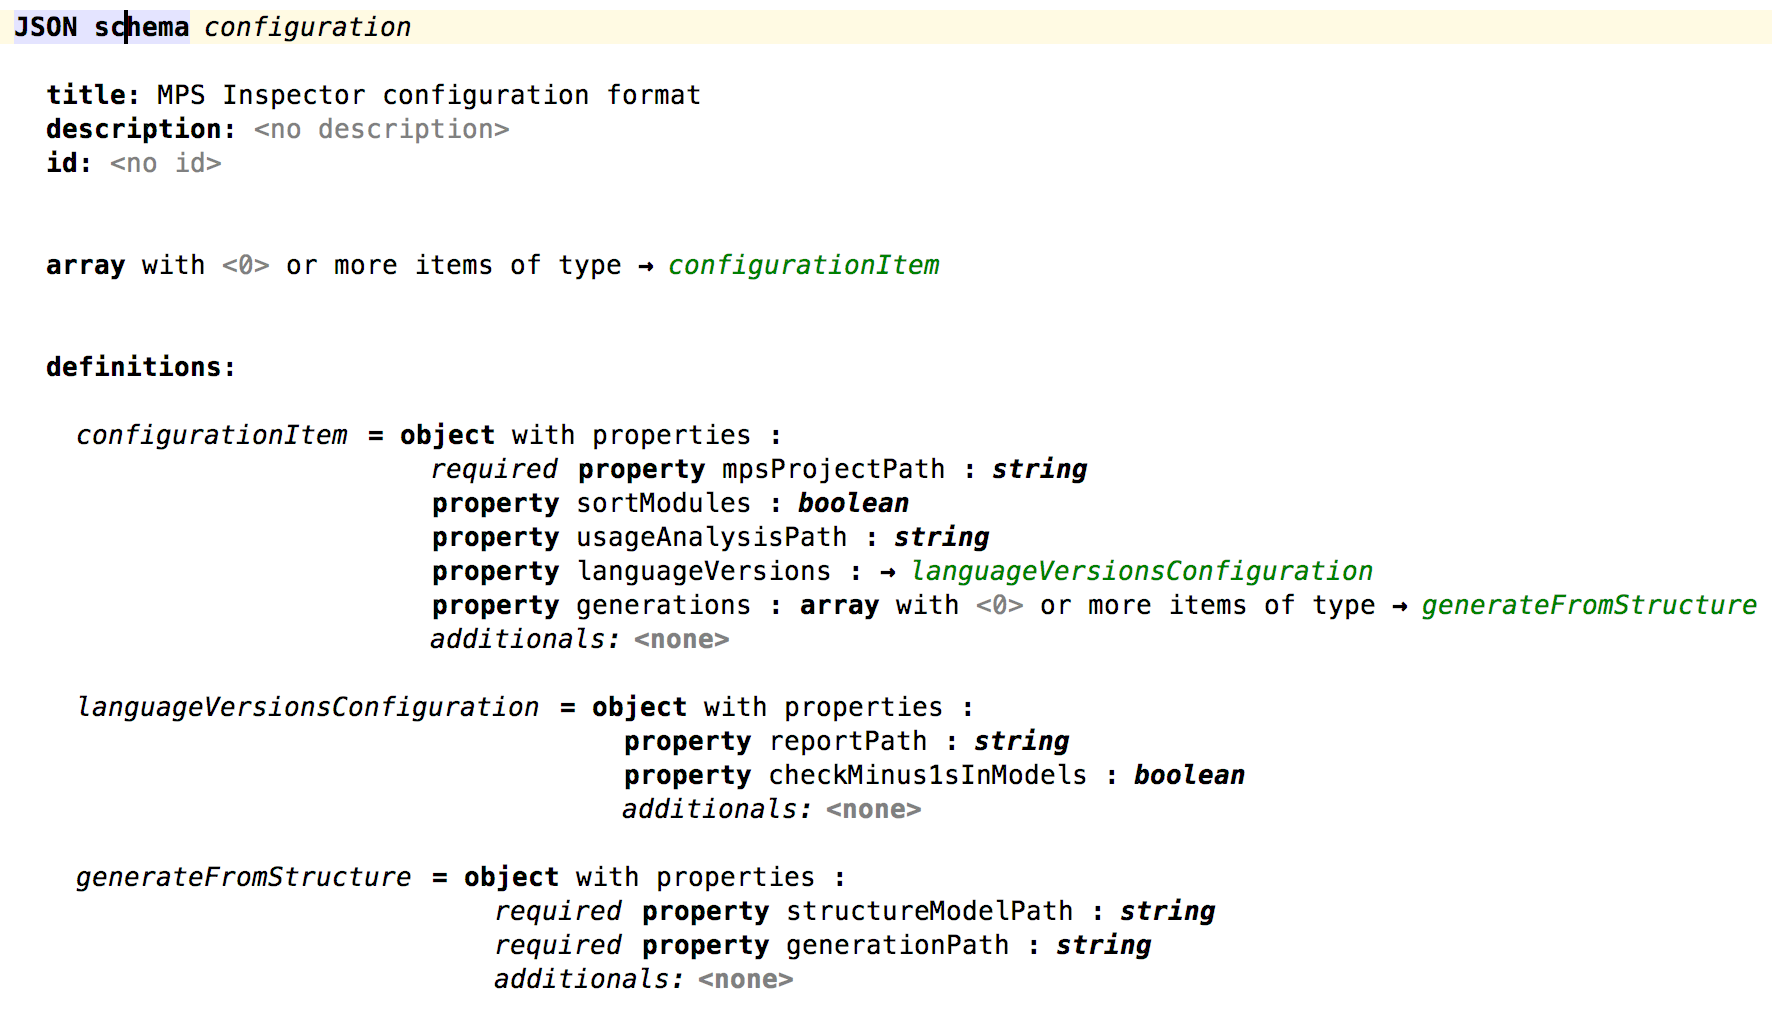
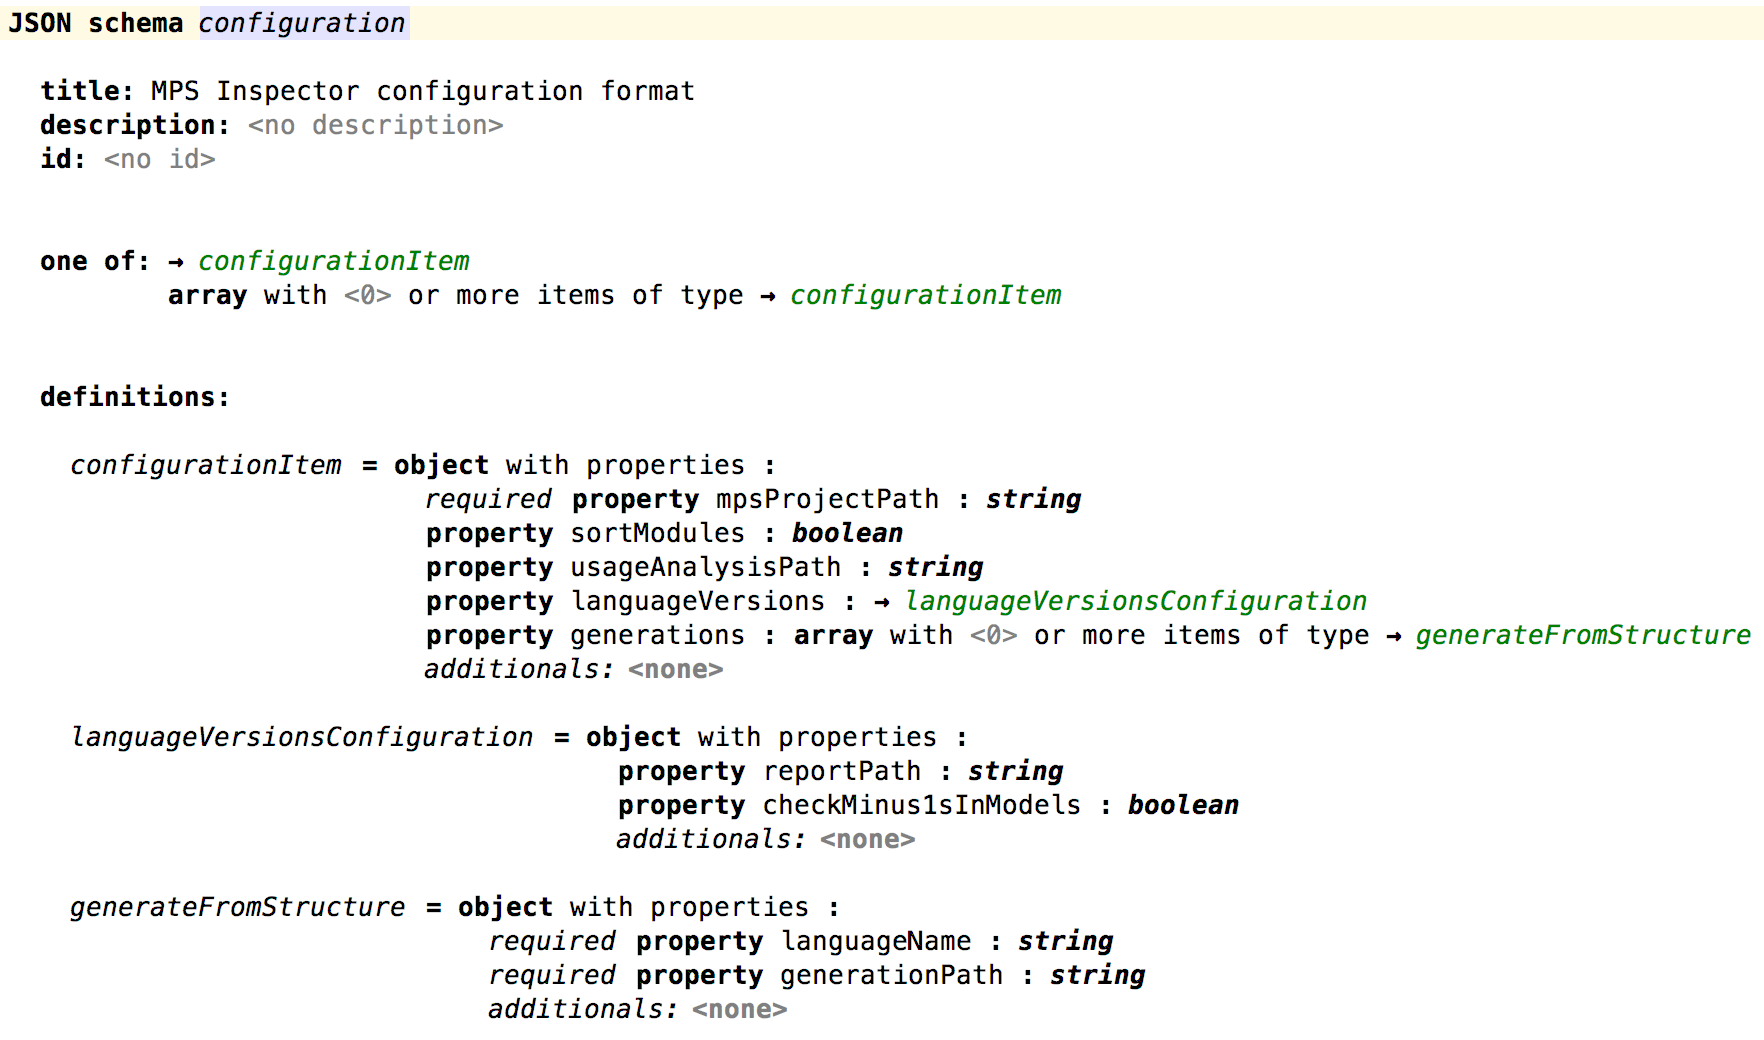
make configuration more aware of project structure; odds and ends w.r.t. configuration

diff --git a/mps-inspector/src/main/kotlin/nl/dslconsultancy/mps/inspector/generator.kt b/mps-inspector/src/main/kotlin/nl/dslconsultancy/mps/inspector/generator.kt
@@ -6,7 +6,6 @@ import nl.dslconsultancy.mps.inspector.util.withHeader
 import nl.dslconsultancy.mps.inspector.xml.asStructure
 import nl.dslconsultancy.mps.inspector.xml.modelXmlFromDisk
 import java.nio.file.Files
-import java.nio.file.Path
 import java.nio.file.Paths
 
 fun generateKotlinFor(structure: Structure): Iterable<String> = structure.elements.flatMap { it.generateKotlinFor() }
@@ -47,13 +46,18 @@ private fun StructuralElement.generateCsvFor(): Iterable<String> =
     }
 
 
-fun GenerateFromStructure.run(mpsProjectPath: Path) {
-    val structureModelAsPath = mpsProjectPath.resolve(structureModelPath)
+fun GenerateFromStructure.run(mpsProjectOnDisk: MpsProjectOnDisk) {
+    val language = mpsProjectOnDisk.languages.find { it.name == languageName }
+    if (language == null) {
+        System.err.println("no language with name '$languageName' in MPS project")
+        return
+    }
+    val structureModelAsPath = language.path.parent.resolve("models").resolve("structure.mps")
     val structure = modelXmlFromDisk(structureModelAsPath).asStructure()
     val genPath = Paths.get(generationPath)
     writeJson(structure, genPath.resolve("export.json"))
     Files.write(genPath.resolve("kotlin.kt"), generateKotlinFor(structure))
-    Files.write(genPath.resolve("structure.csv"), generateCsvFor(structure).sorted().withHeader(csvRowOf("\"concept(#feature)\"", "deprecated")))
+    Files.write(genPath.resolve("structure.csv"), generateCsvFor(structure).sorted().withHeader(csvRowOf("\"concept[#feature]\"", "deprecated")))
     println("wrote generated stuff to '$genPath'")
 }
 

diff --git a/mps-inspector/src/main/kotlin/nl/dslconsultancy/mps/inspector/domain.kt b/mps-inspector/src/main/kotlin/nl/dslconsultancy/mps/inspector/domain.kt
@@ -4,6 +4,7 @@ import com.fasterxml.jackson.annotation.JsonSubTypes
 import com.fasterxml.jackson.annotation.JsonSubTypes.Type
 import com.fasterxml.jackson.annotation.JsonTypeInfo
 import nl.dslconsultancy.mps.inspector.xml.ProjectModule
+import java.nio.file.Path
 
 data class MpsProject(val name: String, val version: Int, val modules: List<ProjectModule>)
 // TODO  use projected ProjectModule instances instead of instances of a class intended for XML deserialization
@@ -16,6 +17,7 @@ interface Named {
 }
 
 data class Language(
+    val path: Path,
     override val name: String,
     val uuid: String,
     val languageVersion: Int,
@@ -74,12 +76,13 @@ data class Concept(
  *
  * If we say that an interface also *implements* (instead of *extends*) interfaces,
  * and impose the following additional constraint,
- * then we can simply add a boolean flag to Concept saying whether it's an interface (true), or a concept (false):
+ * then we can justify simply adding a boolean flag to Concept saying whether it's an interface (true), or a concept (false):
  *
  *  1) an interface does not *extend* anything,
  *  2) rootable = false.
  *
  * This doesn't seem to be too contrary to "MPS World", and makes plenty of sense outside of it.
+ * Now, we have "real" and interface concepts distinguished by the isInterface flag.
  */
 
 

diff --git a/mps-inspector/src/main/kotlin/nl/dslconsultancy/mps/inspector/configuration.kt b/mps-inspector/src/main/kotlin/nl/dslconsultancy/mps/inspector/configuration.kt
@@ -22,7 +22,7 @@ data class LanguageVersionsConfiguration(
 )
 
 data class GenerateFromStructure(
-    val structureModelPath: String,
+    val languageName: String,
     val generationPath: String
 )
 
@@ -54,7 +54,7 @@ fun ConfigurationItem.run() {
                         }
                     }
                 }
-            println("checked for occurrences of language version '-1' in models")
+            println("checked for occurrences of language version -1 in models")
         }
     }
 
@@ -64,6 +64,6 @@ fun ConfigurationItem.run() {
         println("wrote usage analysis to '$usageAnalysisPath'")
     }
 
-    generations.forEach { it.run(mpsProjectPath) }
+    generations.forEach { it.run(mpsProjectOnDisk) }
 }
 

diff --git a/mps-inspector/src/main/kotlin/nl/dslconsultancy/mps/inspector/main.kt b/mps-inspector/src/main/kotlin/nl/dslconsultancy/mps/inspector/main.kt
@@ -31,7 +31,7 @@ fun main(args: Array<String>) {
     } catch (e: MismatchedInputException) {
         jsonFromString<List<ConfigurationItem>>(config).forEach { it.run() }
     } catch (e: JsonProcessingException) {
-        System.err.println("could not parse config input as JSON according to the configuration schema")
+        System.err.println("could not parse config input as JSON according to the configuration schema: check with JSON schema for it")
     }
 }
 

diff --git a/mps-inspector/src/main/kotlin/nl/dslconsultancy/mps/inspector/xml/languageXml.kt b/mps-inspector/src/main/kotlin/nl/dslconsultancy/mps/inspector/xml/languageXml.kt
@@ -14,6 +14,7 @@ fun readLanguageFile(path: Path): Language {
 
     val root = xmlDoc.firstChild()
     return Language(
+        path = path,
         name = root.attribute("namespace"),
         uuid = root.attribute("uuid"),
         languageVersion = Integer.parseInt(root.attribute("languageVersion")),

diff --git a/mps-inspector/README.md b/mps-inspector/README.md
@@ -36,7 +36,7 @@ A configuration item is an object with properties with the following names, type
 * `languageVersions.checkMinus1sInModels`: `true`/`false`, triggers checking all models for occurrences of -1 for the version of languages depended on.
     MPS sometimes looses track of correct language versions, and such, while merging/rebasing.
     The root cause for this should be addressed by [this ticket registered with JetBrains](https://youtrack.jetbrains.com/issue/MPS-29937).
-* `generations`: an array of generation items - this is still a very experimental feature, hence goes undocumented for now.
+* `generations`: an array of generation items - this is still a very experimental feature, hence goes undocumented here for now.
 
 
 ### Usage analysis
